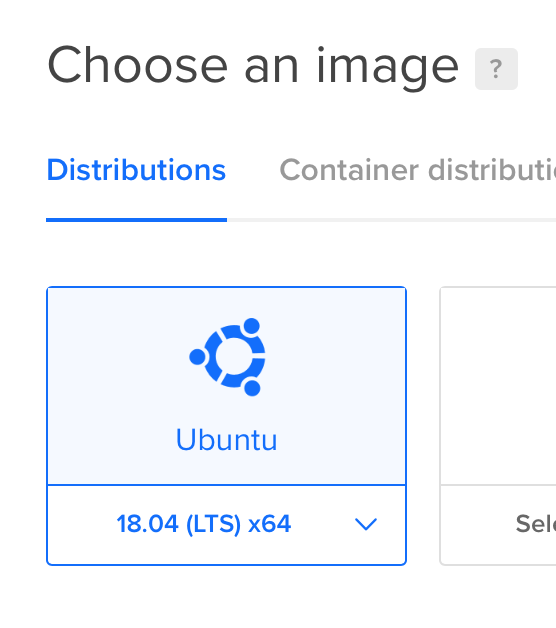
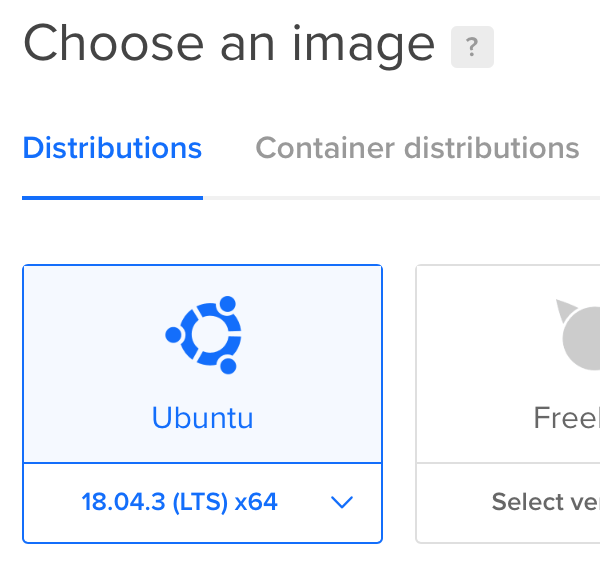
Latest screenshot from DigitalOcean
18.04 (LTS) -> 18.04.3 (LTS)

diff --git a/docs/css/extra.css b/docs/css/extra.css
@@ -48,7 +48,7 @@ td > code {
 }
 
 img[src$="ubuntu-18-lts@2x.png"] {
-  width: 278px;
+  width: 300px;
 }
 
 img[src$="ssh-auth@2x.png"] {
